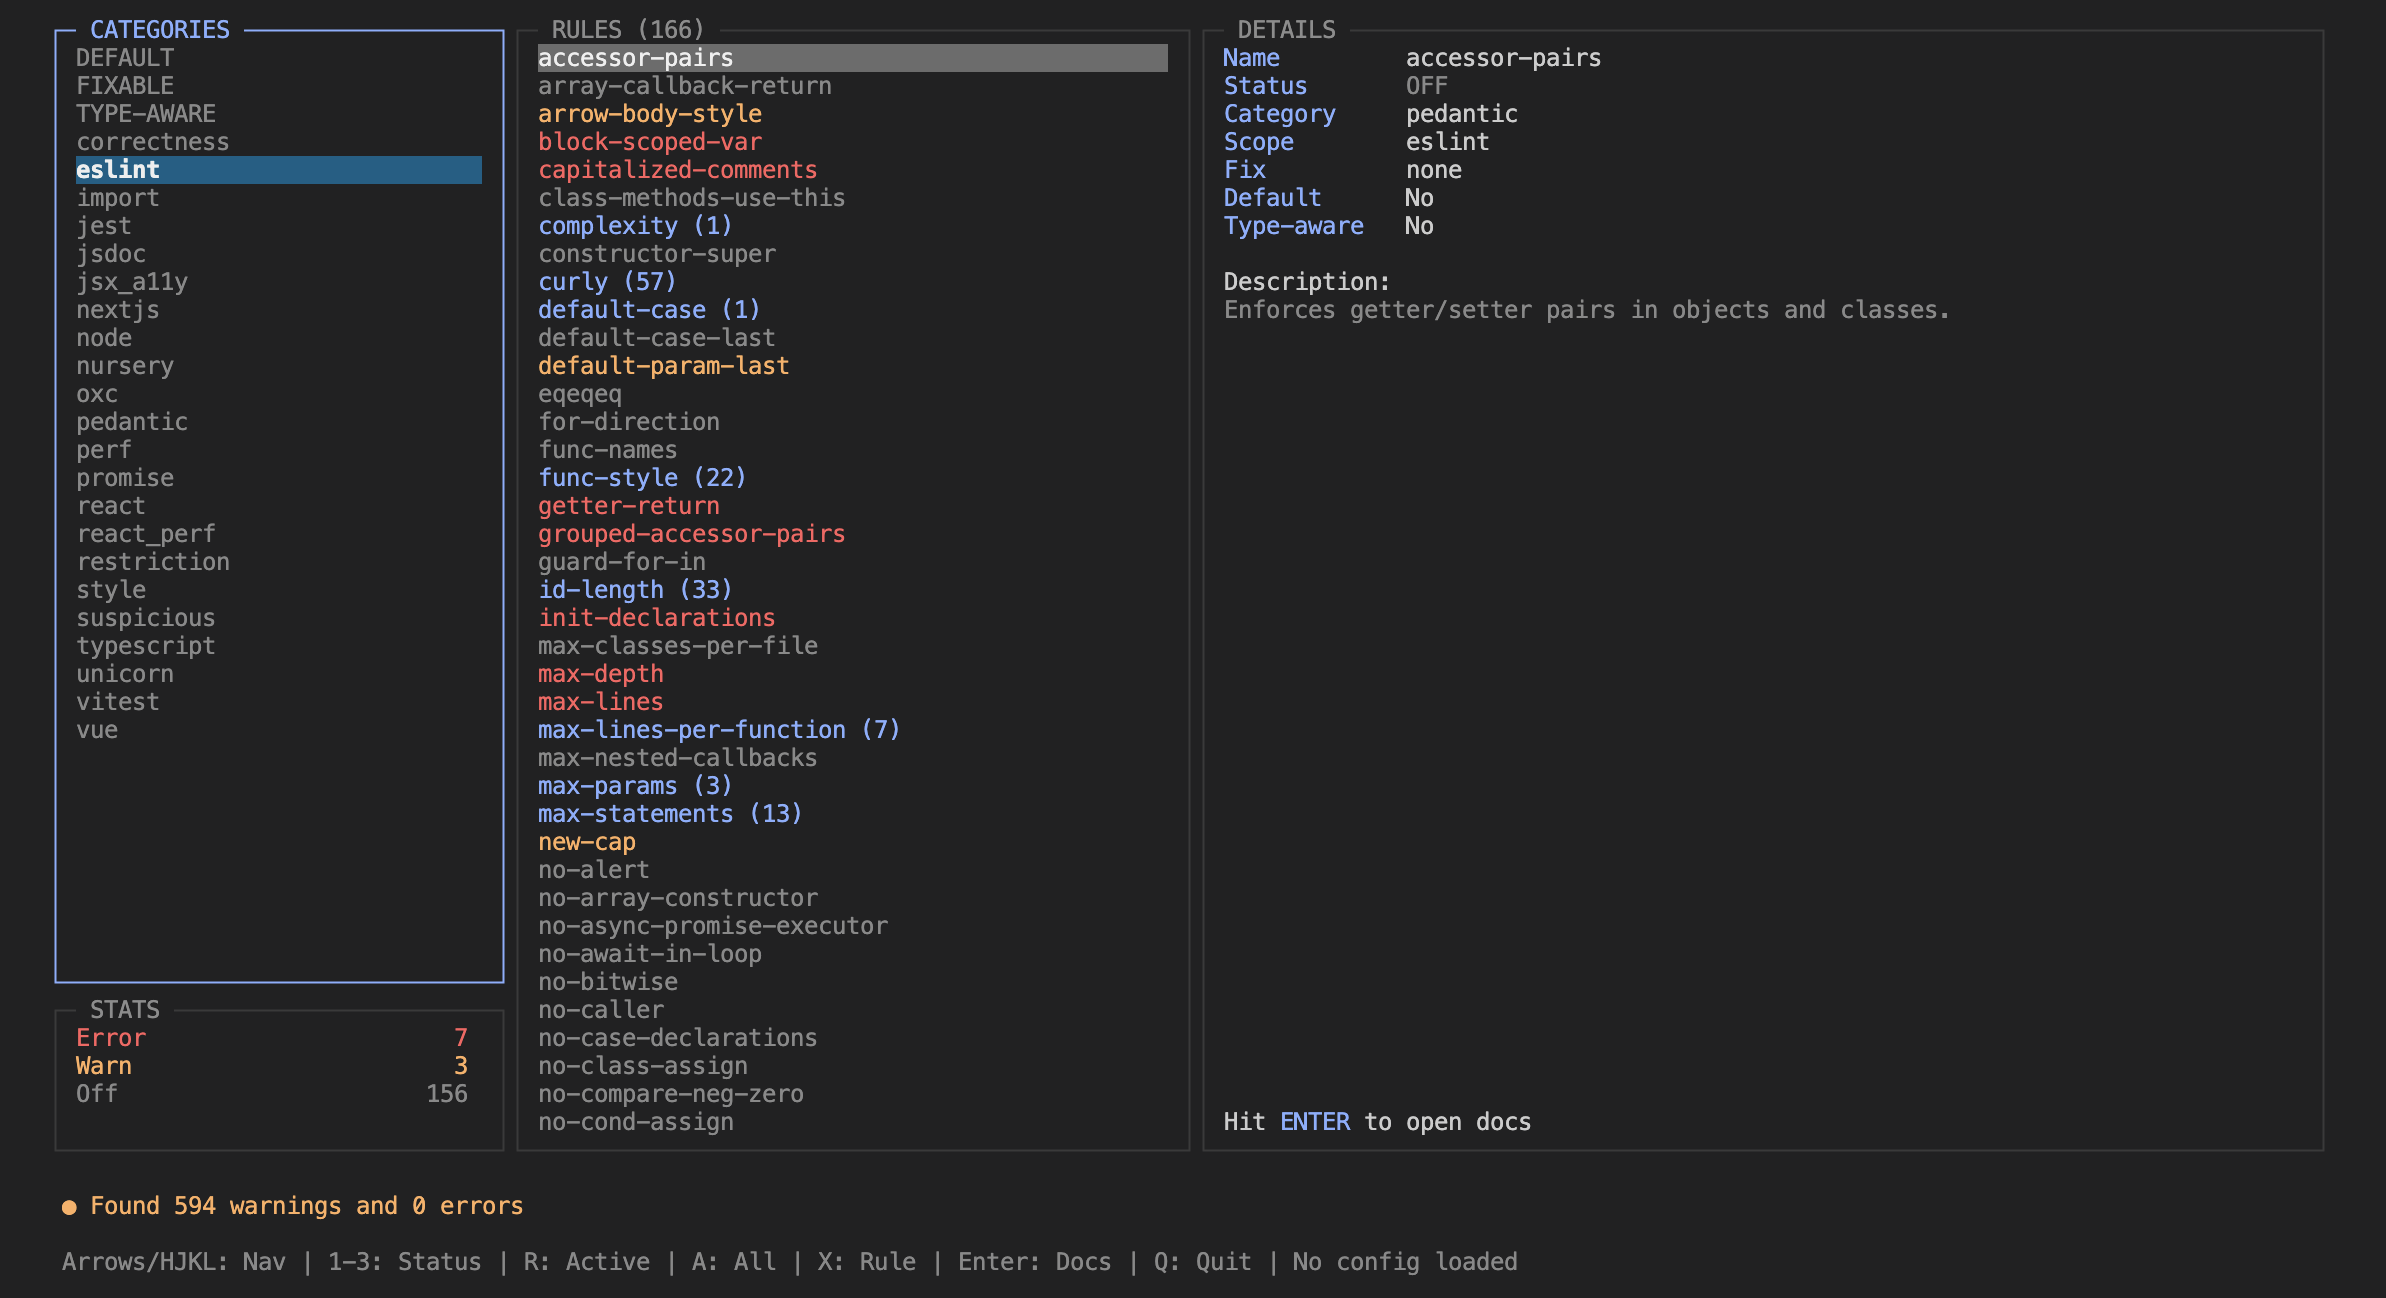
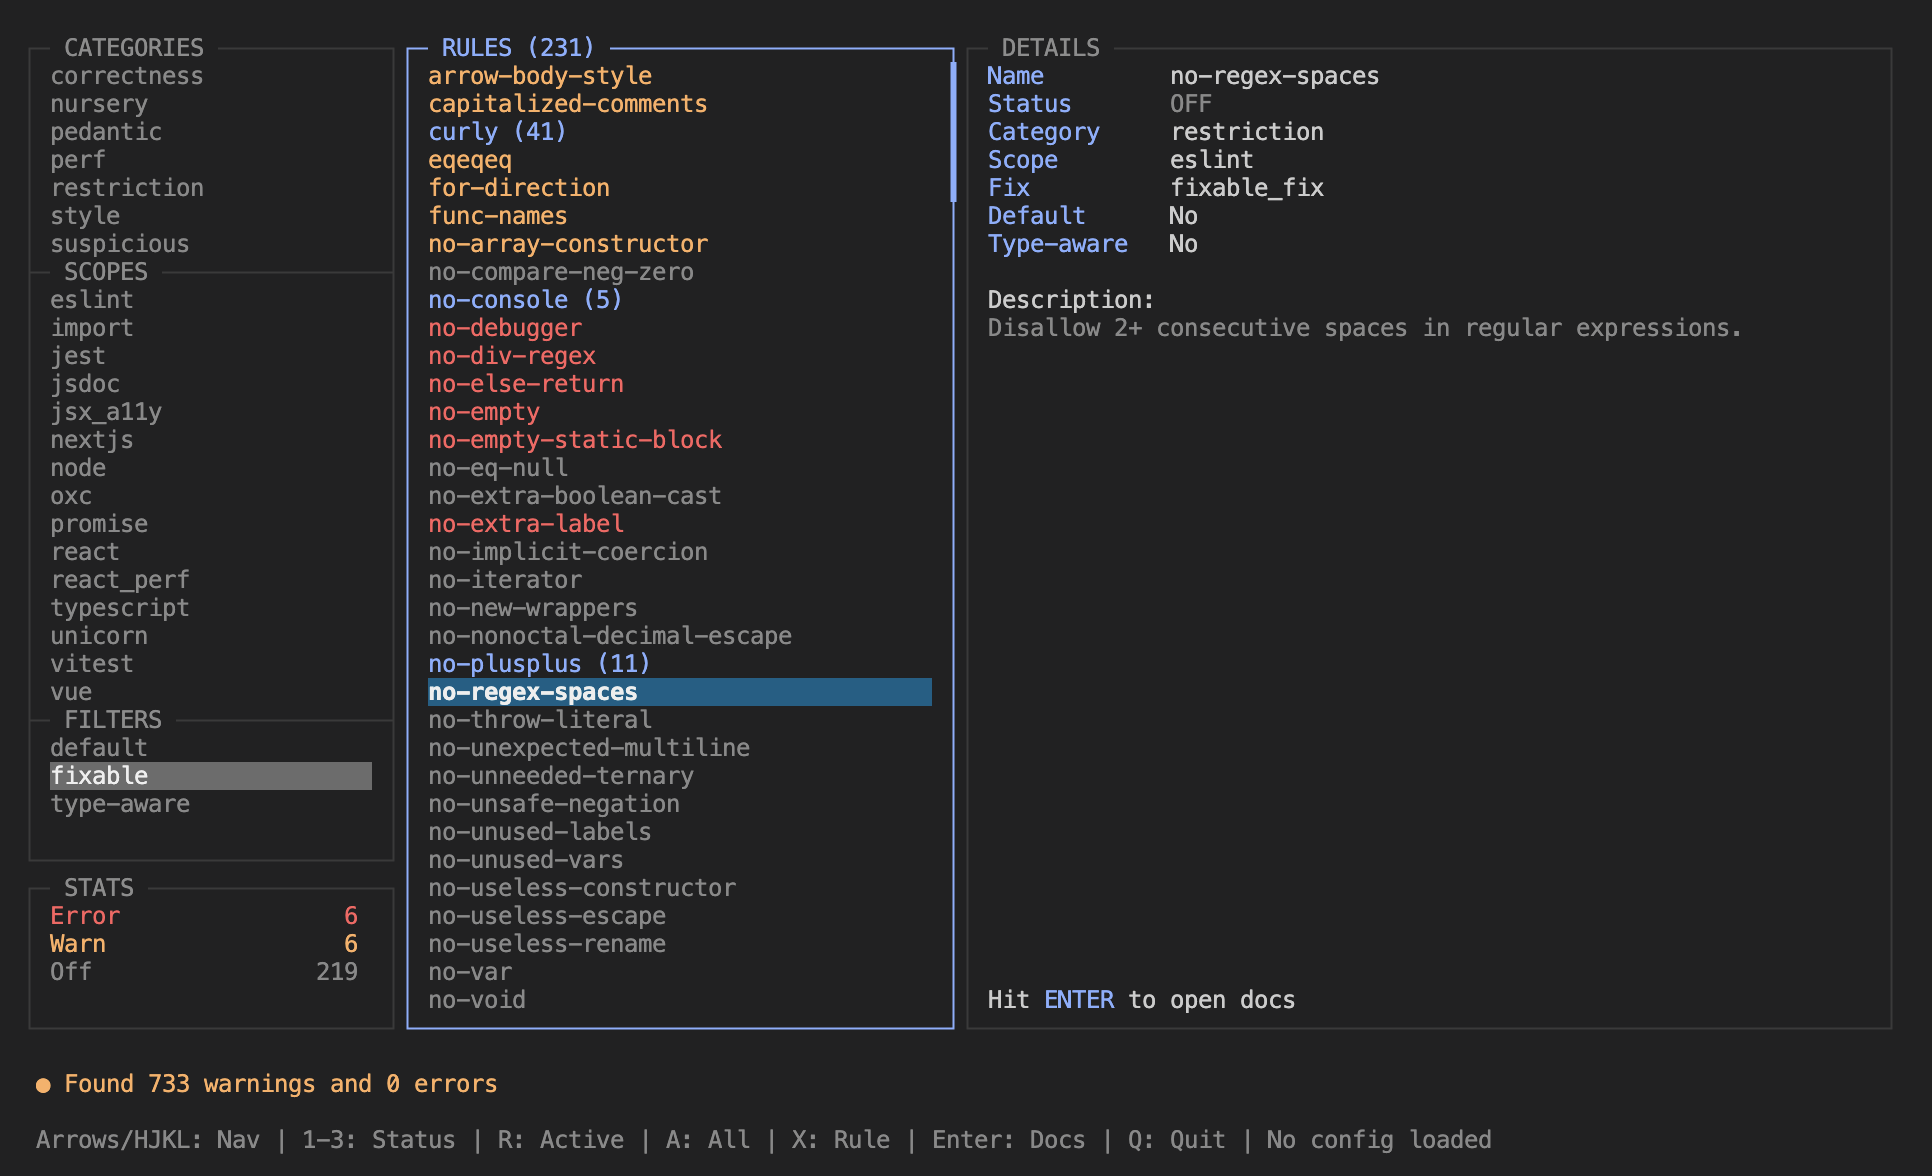
feat: scrollbars

diff --git a/src/rendering.ts b/src/rendering.ts
@@ -40,18 +40,47 @@ function drawBox(
   const topBorder = `${borderColor}┌─ ${titleClean} `.padEnd(width + borderColor.length - 1, "─");
   buffer.push(`\x1b[${y};${x}H${topBorder}┐${COLORS.reset}`);
 
+  const innerHeight = height - 2;
+  const totalItems = items.length;
+  const needsScrollbar = totalItems > innerHeight;
+
+  let thumbStart = 0;
+  let thumbEnd = 0;
+  if (needsScrollbar) {
+    const thumbSize = Math.max(1, Math.floor((innerHeight * innerHeight) / totalItems));
+    const scrollRange = innerHeight - thumbSize;
+    const maxScroll = totalItems - innerHeight;
+    const scrollRatio = maxScroll > 0 ? scrollOffset / maxScroll : 0;
+    thumbStart = Math.floor(scrollRatio * scrollRange);
+    thumbEnd = thumbStart + thumbSize;
+  }
+
   for (let i = 1; i < height - 1; i++) {
-    buffer.push(`\x1b[${y + i};${x}H${borderColor}│${" ".repeat(width - 2)}│${COLORS.reset}`);
+    const scrollbarChar = needsScrollbar && i - 1 >= thumbStart && i - 1 < thumbEnd ? "┃" : "│";
+    buffer.push(
+      `\x1b[${y + i};${x}H${borderColor}│${" ".repeat(width - 2)}${scrollbarChar}${COLORS.reset}`,
+    );
   }
   buffer.push(
     `\x1b[${y + height - 1};${x}H${borderColor}└${"─".repeat(width - 2)}┘${COLORS.reset}`,
   );
 
-  const innerHeight = height - 2;
   items.slice(scrollOffset, scrollOffset + innerHeight).forEach((item, i) => {
     const absoluteIndex = scrollOffset + i;
     const isRule = typeof item !== "string";
     const rawText = isRule ? (item.hits ? `${item.value} (${item.hits})` : item.value) : item;
+    const isDivider = !isRule && rawText.startsWith("-");
+
+    if (isDivider) {
+      const label = rawText.replace(/-/g, "").trim();
+      const innerWidth = width - 2;
+      const labelPart = `─ ${label} `;
+      const remainingDashes = innerWidth - labelPart.length;
+      const rightChar = needsScrollbar && i >= thumbStart && i < thumbEnd ? "┨" : "┤";
+      const dividerLine = `├${labelPart}${"─".repeat(remainingDashes)}${rightChar}`;
+      buffer.push(`\x1b[${y + 1 + i};${x}H${borderColor}${dividerLine}${COLORS.reset}`);
+      return;
+    }
 
     let display =
       rawText.length > width - 4

diff --git a/src/actions.ts b/src/actions.ts
@@ -9,7 +9,6 @@ import {
   updateConfigRule,
 } from "./state.js";
 import { runLint } from "./linting.js";
-import { exitAltScreen } from "./terminal.js";
 import { spawn } from "node:child_process";
 import { platform } from "node:process";
 
@@ -64,6 +63,10 @@ function handleOpenDocs(): void {
   }
 }
 
+function isDivider(category: string): boolean {
+  return category.startsWith("-");
+}
+
 function handleMoveVertical(direction: "up" | "down"): void {
   const state = getState();
   const { activePane, selectedCategoryIndex, selectedRuleIndex, categories } = state;
@@ -75,7 +78,7 @@ function handleMoveVertical(direction: "up" | "down"): void {
 
   if (activePane === 0) {
     const maxIndex = categories.length - 1;
-    const nextIndex =
+    let nextIndex =
       direction === "up"
         ? selectedCategoryIndex === 0
           ? maxIndex
@@ -83,6 +86,17 @@ function handleMoveVertical(direction: "up" | "down"): void {
         : selectedCategoryIndex === maxIndex
           ? 0
           : selectedCategoryIndex + 1;
+
+    while (isDivider(categories[nextIndex])) {
+      nextIndex =
+        direction === "up"
+          ? nextIndex === 0
+            ? maxIndex
+            : nextIndex - 1
+          : nextIndex === maxIndex
+            ? 0
+            : nextIndex + 1;
+    }
 
     setState({
       ...state,
@@ -130,7 +144,7 @@ export function executeAction(action: Action | null): void {
 
   switch (action.type) {
     case "EXIT":
-      exitAltScreen();
+      stdout.write("\x1b[?1049l\x1b[?25h");
       exit(0);
       return;
 

diff --git a/src/rules.ts b/src/rules.ts
@@ -117,9 +117,9 @@ function categorizeRules(
     }
   });
 
-  map["FIXABLE"] = fixableRules;
-  map["DEFAULT"] = defaultRules;
-  map["TYPE-AWARE"] = typeAwareRules;
+  map["fixable"] = fixableRules;
+  map["default"] = defaultRules;
+  map["type-aware"] = typeAwareRules;
 
   Object.entries(scopes).forEach(([scope, rules]) => {
     map[scope] = rules;
@@ -133,10 +133,27 @@ export function loadRules(): RulesState {
   const rulesData = fetchRulesFromOxlint();
   const { config, configPath } = loadConfig();
   const rulesByCategory = categorizeRules(rulesData, descriptions, config);
-  const categories = Object.keys(rulesByCategory).toSorted();
+
+  const specialCategories = ["default", "fixable", "type-aware"];
+
+  const ruleCategories = new Set(rulesData.map((r: any) => r.category));
+  const allKeys = Object.keys(rulesByCategory);
+  const scopes = allKeys.filter((k) => !specialCategories.includes(k) && !ruleCategories.has(k));
+  const categories = allKeys.filter((k) => !specialCategories.includes(k) && ruleCategories.has(k));
+
+  const groupedCategories = [
+    ...categories.toSorted(),
+    "-SCOPES",
+    ...scopes.toSorted(),
+    "-FILTERS",
+    ...specialCategories,
+  ];
+
+  rulesByCategory["-SCOPES"] = [];
+  rulesByCategory["-FILTERS"] = [];
 
   return {
-    categories,
+    categories: groupedCategories,
     rulesByCategory,
     config,
     configPath,

diff --git a/src/state.ts b/src/state.ts
@@ -14,10 +14,6 @@ export function setState(newState: State): void {
   state = newState;
 }
 
-export function updateState(updates: Partial<State>): void {
-  state = { ...state, ...updates };
-}
-
 export function setMessage(message: string, messageType: State["messageType"]): void {
   state.message = message;
   state.messageType = messageType;
@@ -88,8 +84,4 @@ export function getCurrentCategory(): string {
 
 export function getCurrentCategoryRules(): OxlintRule[] {
   return state.rulesByCategory[getCurrentCategory()] || [];
-}
-
-export function getCurrentRule(): OxlintRule | undefined {
-  return getCurrentCategoryRules()[state.selectedRuleIndex];
 }

diff --git a/src/linting.ts b/src/linting.ts
@@ -1,14 +1,9 @@
 import { spawn } from "node:child_process";
 import { platform } from "node:process";
-import type { OxlintRule } from "./types.js";
+import type { LintOptions, OxlintRule } from "./types.js";
 import { getState, setMessage, setLintInProgress, updateRuleHits } from "./state.js";
 import { render } from "./rendering.js";
 import { OXLINT_VERSION, TSGOLINT_VERSION } from "./index.js";
-
-export interface LintOptions {
-  rule?: OxlintRule | null;
-  isRunAll?: boolean;
-}
 
 function buildLintArgs(options: LintOptions): string[] {
   const { rule, isRunAll } = options;

diff --git a/src/index.ts b/src/index.ts
@@ -4,9 +4,8 @@ import { render } from "./rendering.js";
 import { loadRules } from "./rules.js";
 import { initializeState } from "./state.js";
 import { setupKeyboardInput } from "./input.js";
-import { enterAltScreen } from "./terminal.js";
 
-export const OXLINT_VERSION = "1.42.0";
+export const OXLINT_VERSION = "1.43.0";
 export const TSGOLINT_VERSION = "0.11.4";
 
 function createInitialState(): State {
@@ -31,7 +30,7 @@ function main(): void {
 
   stdout.on("resize", render);
 
-  enterAltScreen();
+  stdout.write("\x1b[?1049h\x1b[?25l");
   render();
 }
 

diff --git a/src/types.ts b/src/types.ts
@@ -4,6 +4,11 @@ export type RuleStatus = "off" | "warn" | "error";
 
 export type RulesState = Pick<State, "categories" | "rulesByCategory" | "config" | "configPath">;
 
+export type LintOptions = {
+  rule?: OxlintRule | null;
+  isRunAll?: boolean;
+};
+
 export type OxlintRule = {
   value: string;
   category: string;
